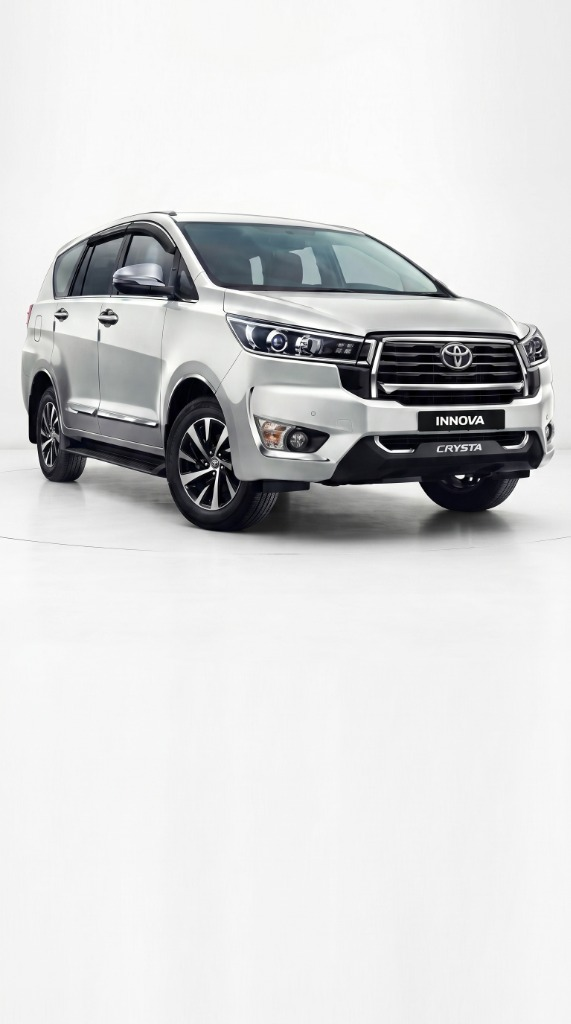
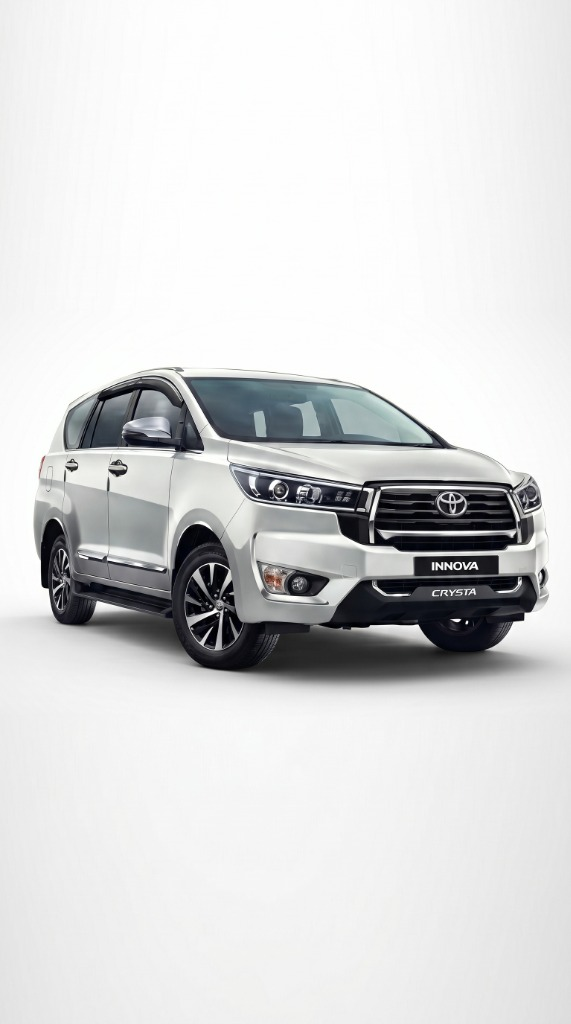
Update Innova and Etios photos

diff --git a/script.js b/script.js
@@ -30,7 +30,7 @@ const vehicles = [
         fuel: "Petrol / Diesel",
         priceKm: 12,
         priceDay: 2200,
-        image: "images/swift-tour.jpg",
+        image: "images/etios.jpg",
         description: "Toyota's trusted workhorse. Excellent mileage, spacious interiors, and Toyota reliability. Ideal for solo travellers and couples heading to Lucknow city from the airport."
     },
     {
